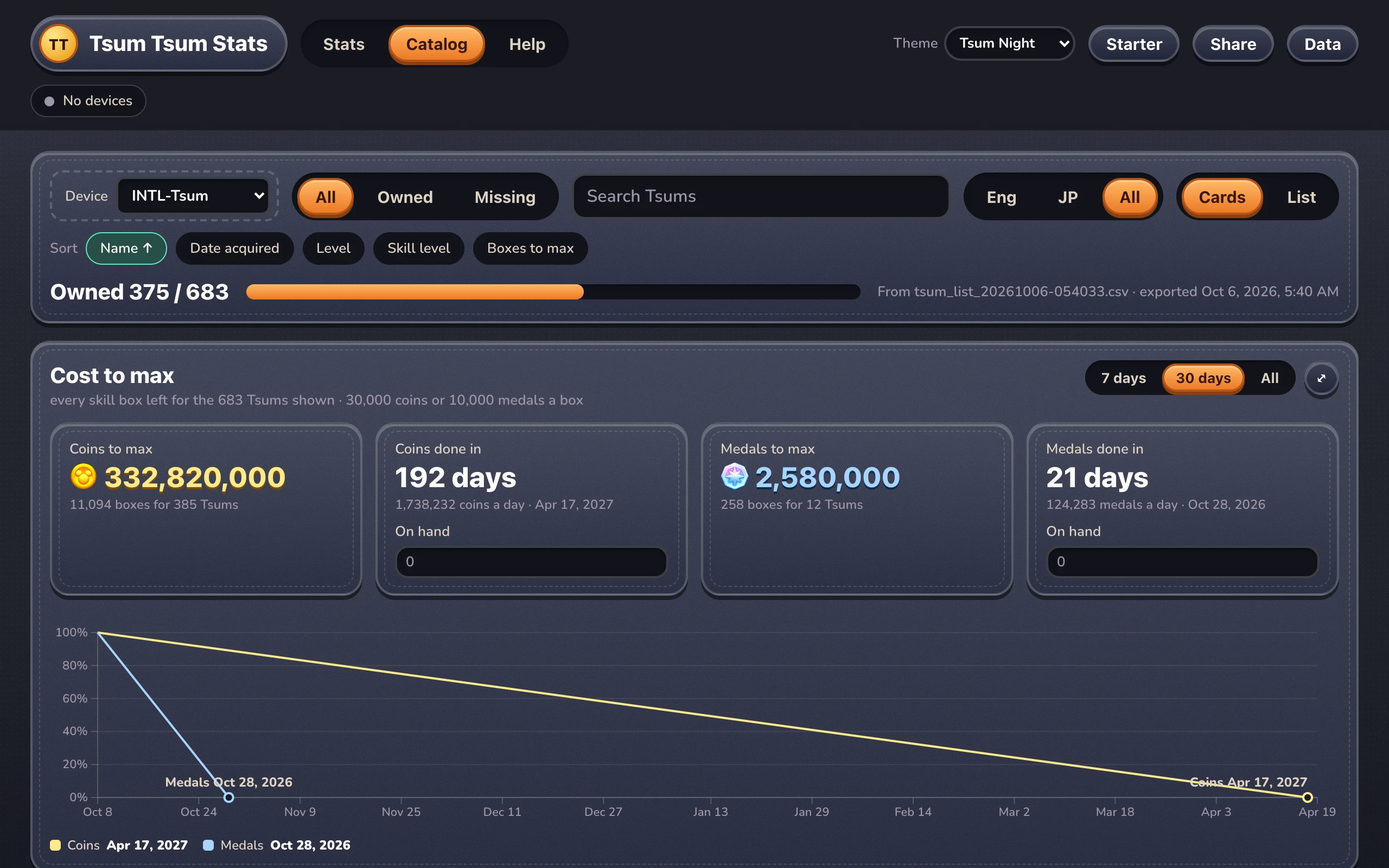
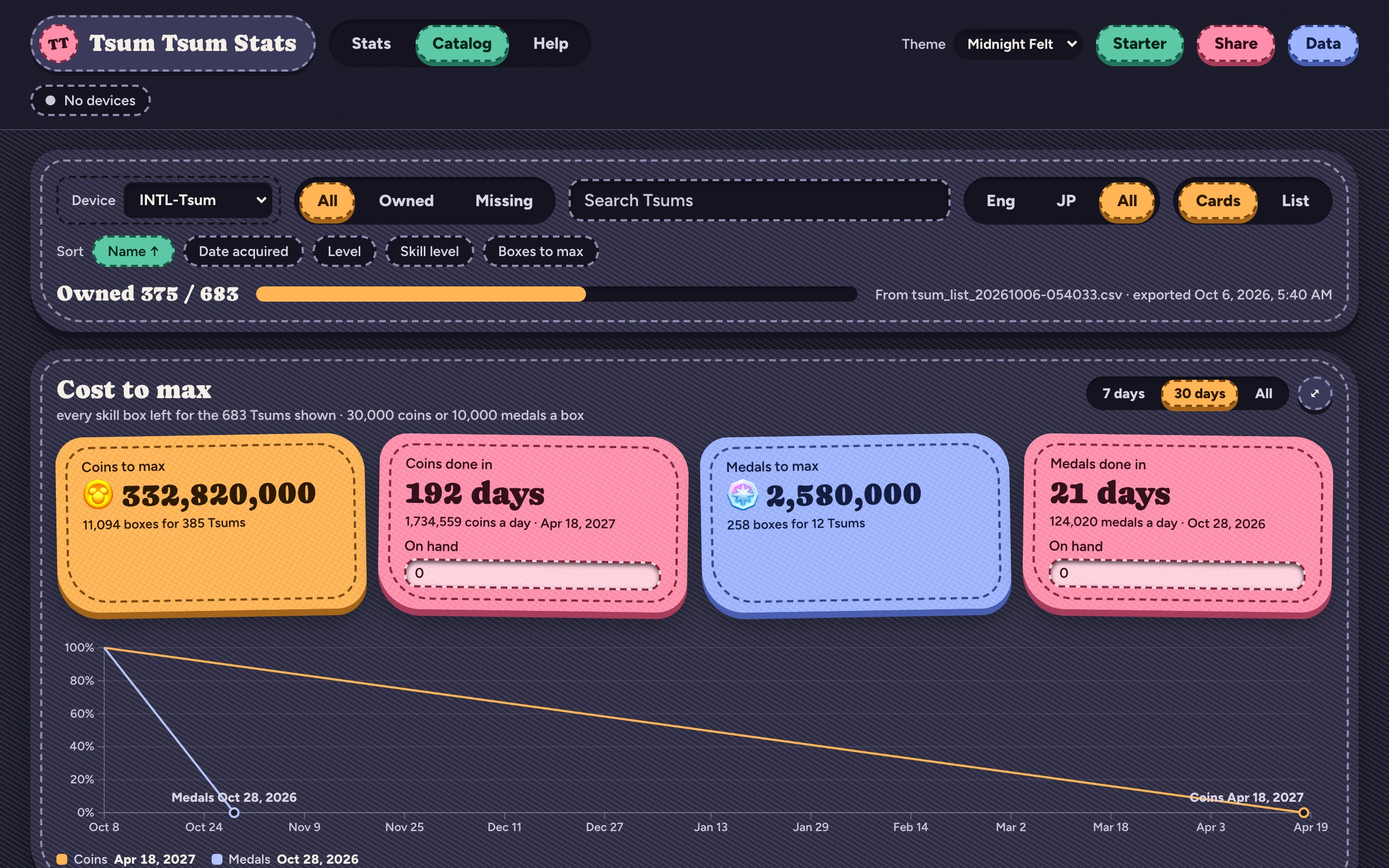
Retake the Tsum Tsum Stats screenshots in Midnight Felt
Same three pages, now in the website's own look, with the filter rail
scrolled to the top. The Themes card no longer names a default.

diff --git a/src/data/landing.js b/src/data/landing.js
@@ -31,9 +31,9 @@ const starterShots = [
 
 /** The Tsum Tsum Stats page: the program's own pages in a desktop browser, with a test account's data. */
 const statsShots = [
-  { id: 'shot-stats-site-stats', alt: 'The Stats page for the last 7 days: coin and medal tiles over the Coin efficiency by Tsum chart', capture: 'Tsum Tsum Stats, Stats page, last 7 days: KPI tiles and the top of Coin efficiency by Tsum. Laptop window, 1280x800 at 2x.' },
-  { id: 'shot-stats-site-catalog', alt: 'The Catalog: 375 of 683 Tsums owned, and Cost to max with the days left at the current pace', capture: 'Tsum Tsum Stats, Catalog with an imported Tsum List: the owned bar and the Cost to max panel. Laptop window, 1280x800 at 2x.' },
-  { id: 'shot-stats-site-help', alt: 'Help: the 10.0.2.2:21025 address to paste into the GAP app\'s Script events, with the steps', capture: 'Tsum Tsum Stats, Help section 1, heading just under the top bar. Laptop window, 1280x800 at 2x.' },
+  { id: 'shot-stats-site-stats', alt: 'The Stats page for the last 7 days: coin and medal tiles over the Coin efficiency by Tsum chart', capture: 'Tsum Tsum Stats, Stats page, last 7 days: KPI tiles and the top of Coin efficiency by Tsum. Midnight Felt theme, laptop window, 1280x800 at 2x.' },
+  { id: 'shot-stats-site-catalog', alt: 'The Catalog: 375 of 683 Tsums owned, and Cost to max with the days left at the current pace', capture: 'Tsum Tsum Stats, Catalog with an imported Tsum List: the owned bar and the Cost to max panel. Midnight Felt theme, laptop window, 1280x800 at 2x.' },
+  { id: 'shot-stats-site-help', alt: 'Help: the 10.0.2.2:21025 address to paste into the GAP app\'s Script events, with the steps', capture: 'Tsum Tsum Stats, Help section 1, heading just under the top bar. Midnight Felt theme, laptop window, 1280x800 at 2x.' },
 ];
 
 /** Landing "What's in the sewing box" cards: feature keys, in order. */

diff --git a/src/pages/stats-site.tsx b/src/pages/stats-site.tsx
@@ -68,8 +68,8 @@ const parts: {title: string; tone: Tone; body: React.ReactNode}[] = [
     tone: 'surface',
     body: (
       <>
-        Tsum Night, the default, plus Midnight and Daylight Felt in this site's look, and a few more. You can add your
-        own as a small CSS file.
+        Midnight and Daylight Felt in this site's look, plus Halloween, Ember and Tsum Night. You can add your own as a
+        small CSS file.
       </>
     ),
   },

diff --git a/MEDIA_PLAN.md b/MEDIA_PLAN.md
@@ -61,9 +61,9 @@ Compositions to build (6):
 | `shot-landing-hero` | screenshot | Landing |  Phone or emulator mid-round, floating bar visible, a long chain mid-draw. Full portrait screen. | done |
 | `shot-starter-devices` | screenshot | Starter |  Starter page: the device list, one device selected with its service stopped. | done |
 | `shot-starter-started` | screenshot | Starter |  Starter page: the chosen device's panel after "Start service" succeeded. | done |
-| `shot-stats-site-stats` | screenshot | Tsum Tsum Stats |  Tsum Tsum Stats, Stats page, last 7 days: KPI tiles and the top of Coin efficiency by Tsum. Laptop window, 1280x800 at 2x. | done |
-| `shot-stats-site-catalog` | screenshot | Tsum Tsum Stats |  Tsum Tsum Stats, Catalog with an imported Tsum List: the owned bar and the Cost to max panel. Laptop window, 1280x800 at 2x. | done |
-| `shot-stats-site-help` | screenshot | Tsum Tsum Stats |  Tsum Tsum Stats, Help section 1, heading just under the top bar. Laptop window, 1280x800 at 2x. | done |
+| `shot-stats-site-stats` | screenshot | Tsum Tsum Stats |  Tsum Tsum Stats, Stats page, last 7 days: KPI tiles and the top of Coin efficiency by Tsum. Midnight Felt theme, laptop window, 1280x800 at 2x. | done |
+| `shot-stats-site-catalog` | screenshot | Tsum Tsum Stats |  Tsum Tsum Stats, Catalog with an imported Tsum List: the owned bar and the Cost to max panel. Midnight Felt theme, laptop window, 1280x800 at 2x. | done |
+| `shot-stats-site-help` | screenshot | Tsum Tsum Stats |  Tsum Tsum Stats, Help section 1, heading just under the top bar. Midnight Felt theme, laptop window, 1280x800 at 2x. | done |
 | `shot-autoplay-hero` | screenshot | Features / Auto-play; Landing |  Mid-round, finger down on a chain of 8+ tsums, chain-count number visible. Crop to the board and score bar. | done |
 | `shot-autoplay-round-tab` | screenshot | Features / Auto-play |  Settings page on the Round tab, scrolled to the top, light theme. | done |
 | `shot-autoplay-max-chain` | screenshot | Features / Auto-play |  Close-up of the Maximum Chain Number and Chains per board scan rows. | done |
